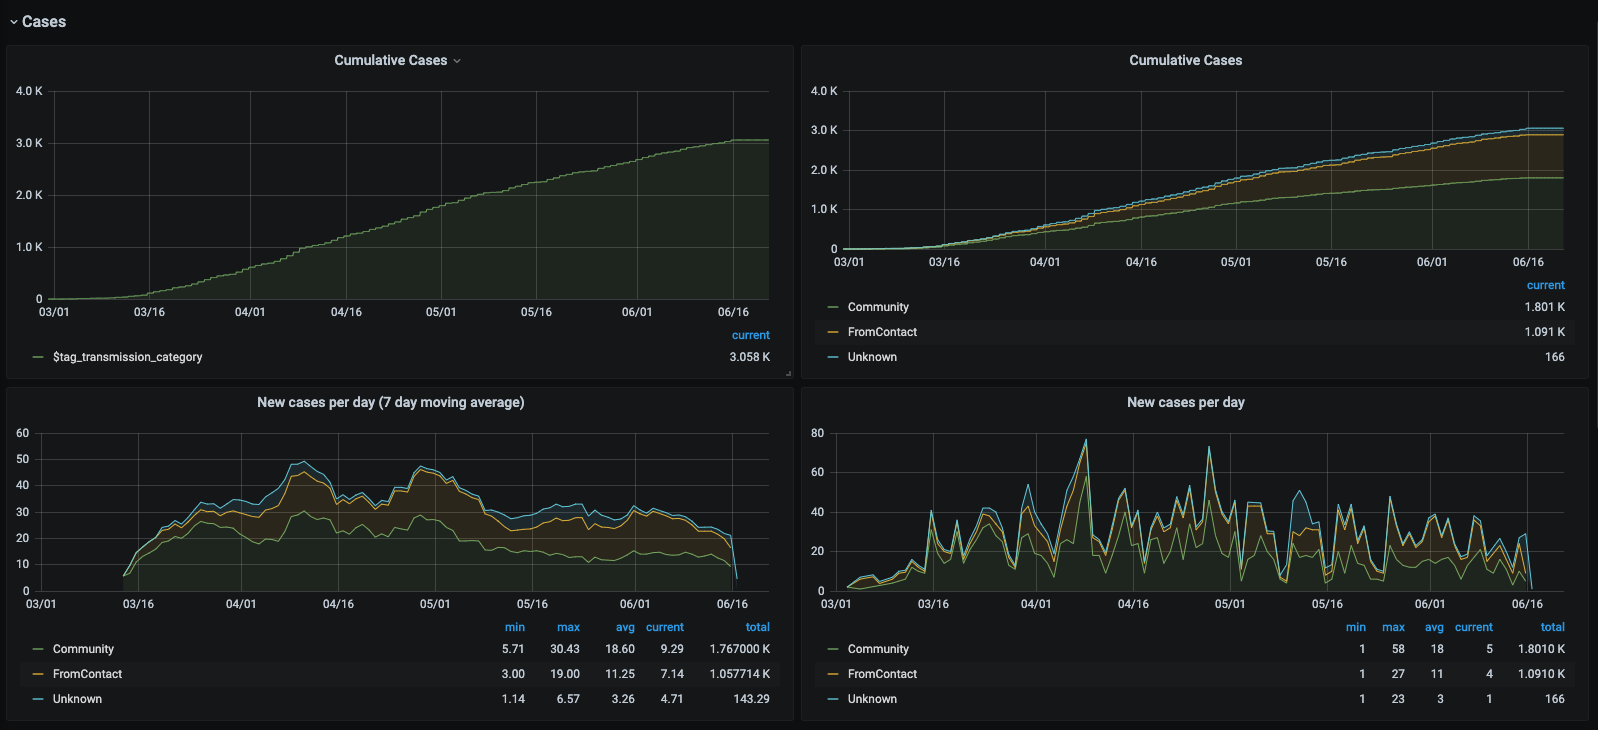
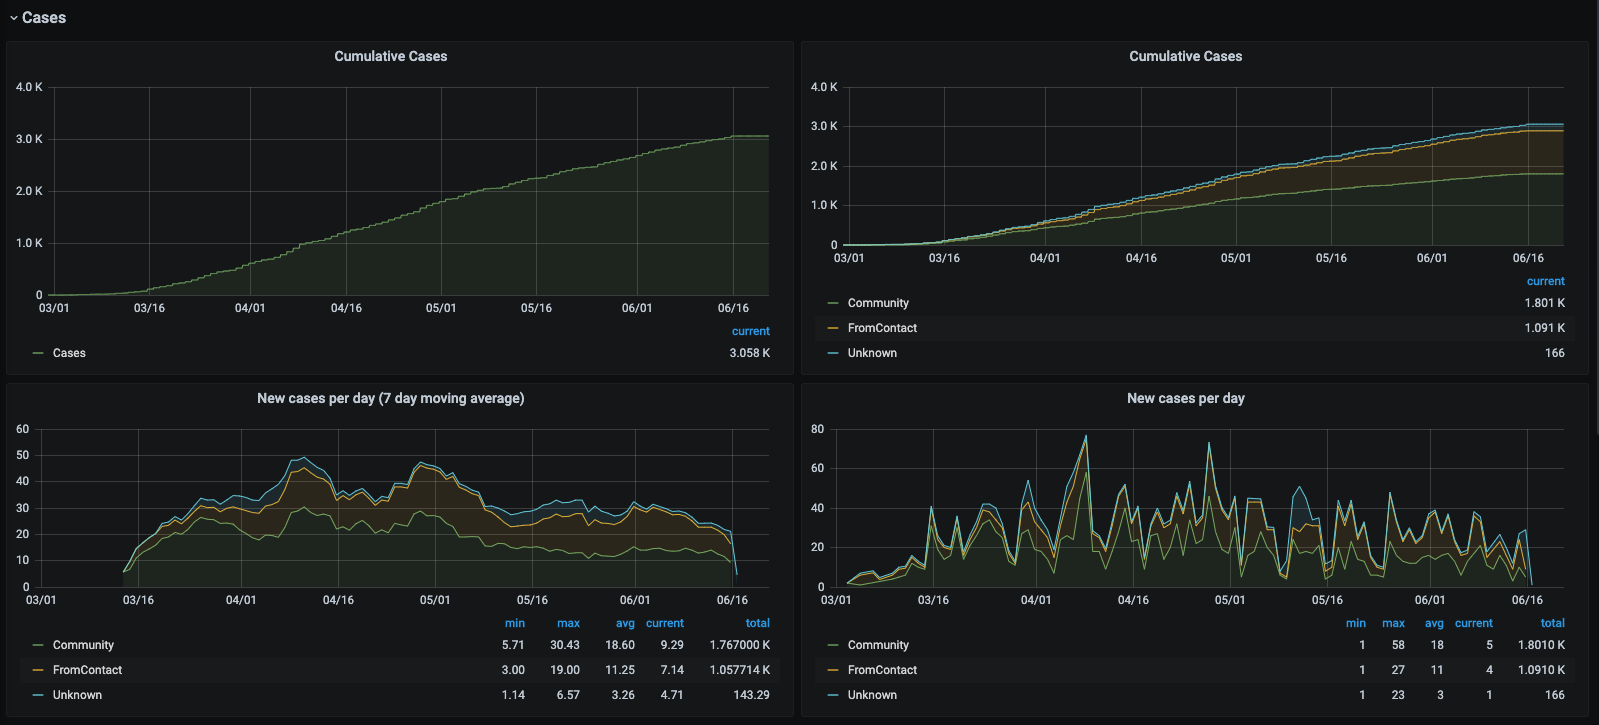
Changes to dashboard
Cumulative graph over all sources had incorrect name

Include link to data source (also update README with this link)

Create new screenshots to fix that issue

diff --git a/README.md b/README.md
@@ -8,6 +8,9 @@ have a moving average view, so it is very difficult to see trends.
 ![Deaths](images/deaths.png)
 
 ## Components
+* Data source: [DataDF - COVID-19 Cases Summarized by Date, Transmission and
+  Case Disposition](https://data.sfgov.org/COVID-19/COVID-19-Cases-Summarized-by-Date-Transmission-and/tvq9-ec9w)
+  * HTTP/JSON API: `https://data.sfgov.org/resource/tvq9-ec9w.json`
 * InfluxDB to house the timeseries data
 * Grafana to create the dashboard
 * Simple application to grab data from JSON API and write to InfluxDB
